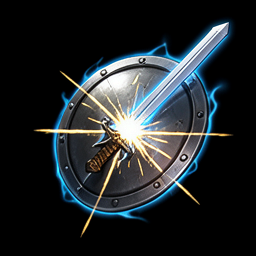
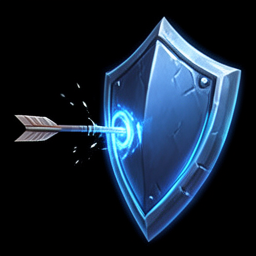
Block ikona: novy obrazek (stít s modrou bariérou + jeden síp vlevo); centrální ikony arény (cast, PS tlačítka) kulaté s bílým bordurem; ASSET_CACHE bump

diff --git a/public/style.css b/public/style.css
@@ -417,6 +417,14 @@ body.no-scroll { overflow: hidden; }
   filter:drop-shadow(0 0 12px rgba(255,255,255,0.6));
   animation:castPulse 0.5s ease-in-out infinite alternate;
 }
+/* Kulatý tvar + border — skryje hranaté černé pozadí ikon, působí jako záměr */
+#mbArena .cast-spell-icon img {
+  border-radius:50%;
+  border:2px solid #fff;
+  overflow:hidden;
+  object-fit:cover;
+  background:#111;
+}
 @keyframes castPulse {
   from { transform:translate(-50%,-50%) scale(0.8); opacity:0.7; }
   to   { transform:translate(-50%,-50%) scale(1.1); opacity:1.0; }

diff --git a/public/sw.js b/public/sw.js
@@ -1,5 +1,5 @@
 const CODE_CACHE = 'boss-slayer-code-v204';
-const ASSET_CACHE = 'boss-slayer-assets-v47';
+const ASSET_CACHE = 'boss-slayer-assets-v48';
 
 const CODE_FILES = ['/', '/index.html', '/style.css?v=161', '/manifest.json', '/item-reference.html'];
 
